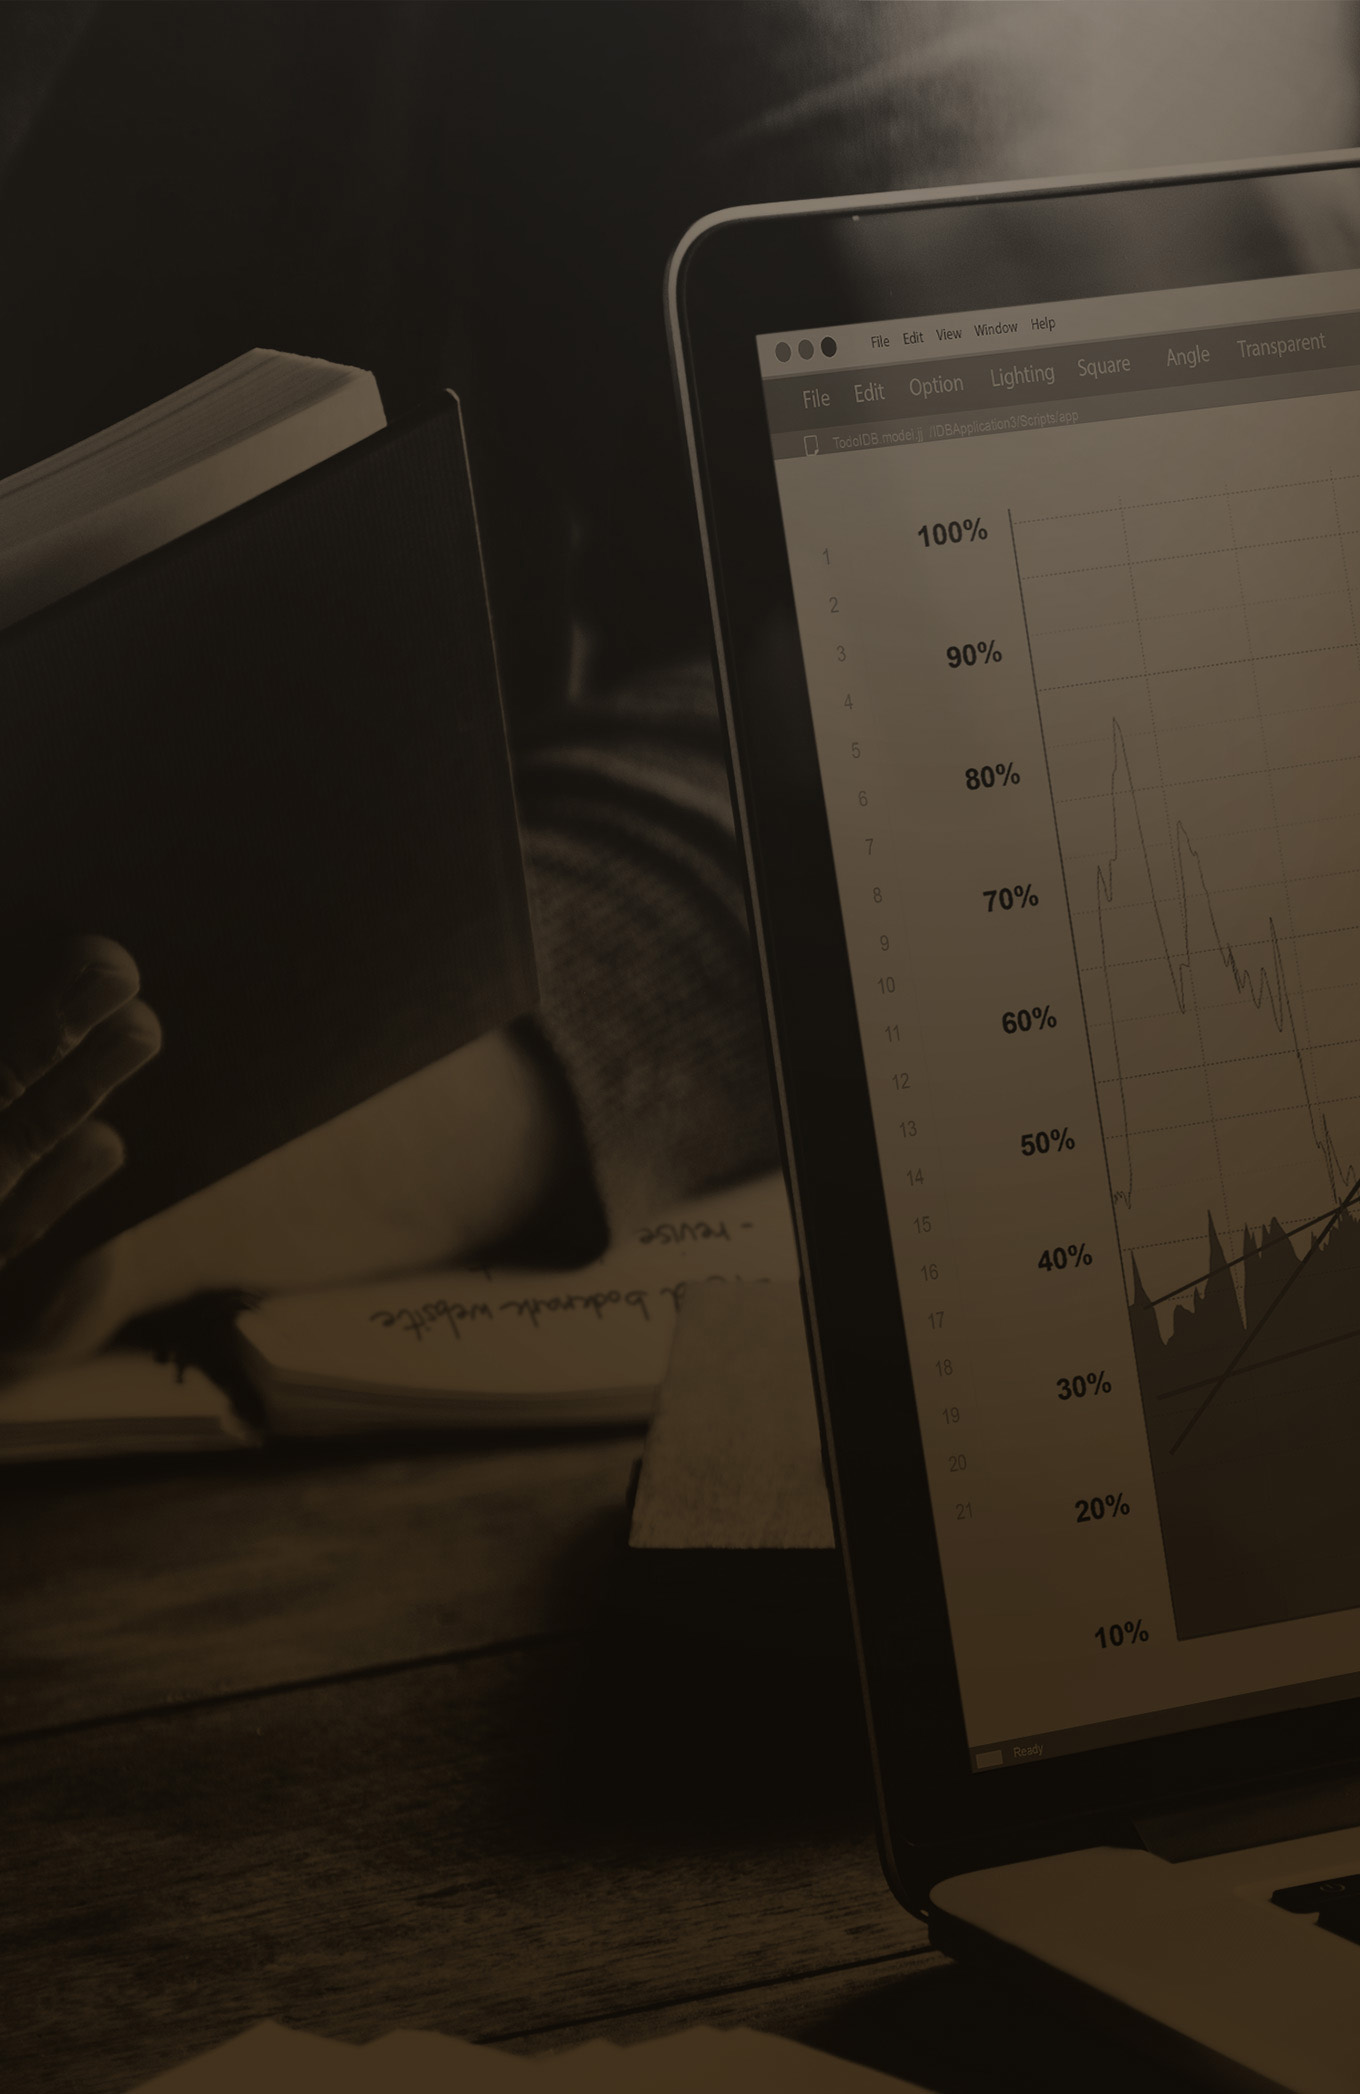
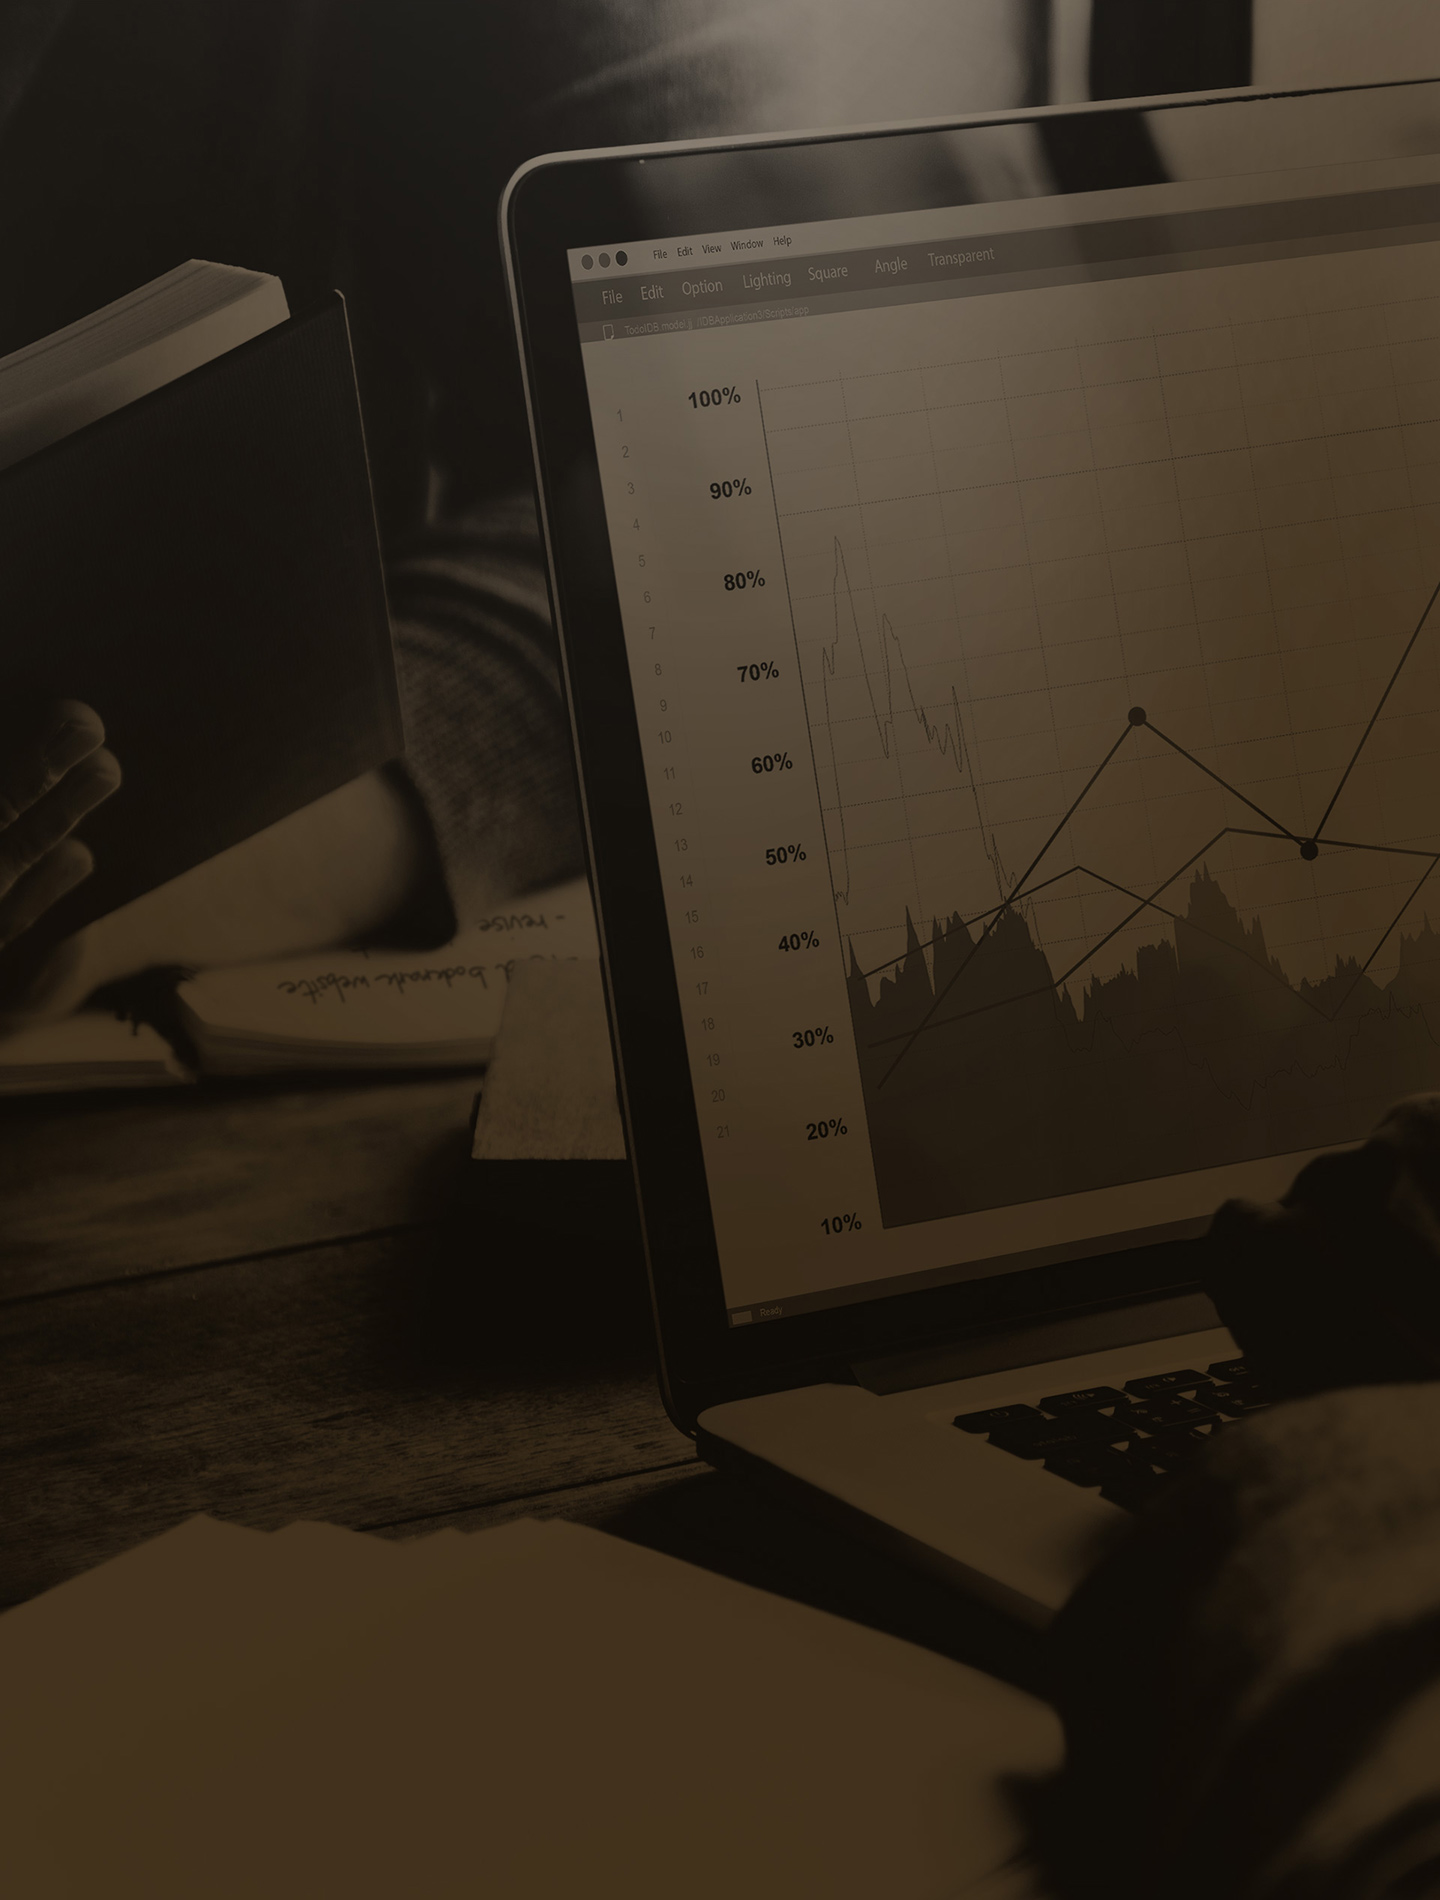
Added google map

diff --git a/src/bootstrap.js b/src/bootstrap.js
@@ -4,6 +4,7 @@ import 'modernizr';
 import 'settings';
 import Vue from 'vue';
 import BaiduMap from 'vue-baidu-map';
+import * as VueGoogleMaps from 'vue2-google-maps';
 import VueScrollTo from 'vue-scrollto';
 import VueAwesomeSwiper from 'vue-awesome-swiper';
 import filter from 'filter';
@@ -47,6 +48,16 @@ if (localeConfig.localeEnabled) {
 
 Vue.use(BaiduMap, {
 	ak: 'V4ZAcWo4zX0rQXF3hRHwhyVquao5YjIX',
+});
+
+Vue.use(VueGoogleMaps, {
+	load: {
+		key: 'AIzaSyBfJh-_qvXmXhwRfJ9OR6V5dXxk_SnAmvY',
+		// libraries: 'places', // This is required if you use the Autocomplete plugin
+		// OR: libraries: 'places,drawing'
+		// OR: libraries: 'places,drawing,visualization'
+		// (as you require)
+	},
 });
 
 Vue.use(VueScrollTo, {

diff --git a/src/component/ContactMap/ContactMap.vue b/src/component/ContactMap/ContactMap.vue
@@ -2,11 +2,24 @@
 <script src="./ContactMap.js"></script>
 
 <template>
-	<div>
+	<div :class="$style.mapWrapper">
 		<baidu-map :class="$style.map" :center="{lng: 151.25829, lat: -33.889387}" :zoom="15">
 			<bm-marker :position="{lng: 151.25829, lat: -33.889387}" :dragging="true" animation="BMAP_ANIMATION_BOUNCE">
 			</bm-marker>
 		</baidu-map>
+		<gmap-map
+			id="google-map"
+			:class="[$style.map, $style.googleMap, googleEnabled ? $style.show : '']"
+			:center="{lat: -33.872433, lng: 151.207652}"
+			:zoom="15"
+			:options="{
+		      disableDefaultUI: true
+	        }"
+		>
+			<gmap-marker
+				:position="{lat: -33.872433, lng: 151.207652}"
+			></gmap-marker>
+		</gmap-map>
 	</div>
 </template>
 

diff --git a/index.html b/index.html
@@ -4,8 +4,10 @@
     <meta charset="utf-8" />
     <meta http-equiv="X-UA-Compatible" content="IE=edge,chrome=1" />
     <meta name="viewport" content="width=device-width, initial-scale=1, maximum-scale=1, shrink-to-fit=no" />
+	<link href='https://api.tiles.mapbox.com/mapbox-gl-js/v0.42.1/mapbox-gl.css' rel='stylesheet' />
 
-    <title>Gleich</title>
+
+	<title>Gleich</title>
   </head>
   <body>
     <div id="app"></div>

diff --git a/src/component/ContactMap/ContactMap.scss b/src/component/ContactMap/ContactMap.scss
@@ -1,10 +1,24 @@
 :local {
+	.map-wrapper {
+		position: relative;
+	}
 	.map {
 		height: 380px;
 		width: 100%;
 
 		@include respond-to(SMALL) {
 			height: 280px;
+		}
+	}
+
+	.google-map {
+		position: absolute !important;
+		left: 0;
+		top: 0;
+		z-index: -1;
+
+		&.show {
+			z-index: 1;
 		}
 	}
 }

diff --git a/src/page/HomePage/HomePage.js b/src/page/HomePage/HomePage.js
@@ -27,7 +27,7 @@ export default {
 			let yPos = window.pageYOffset / 5;
 			yPos = -yPos;
 			// eslint-disable-next-line
-			const coords = '100% ' + yPos + 'px';
+			const coords = '0 ' + yPos + 'px';
 			parallax.style.backgroundPosition = coords;
 		},
 	},

diff --git a/src/component/ContactMap/ContactMap.js b/src/component/ContactMap/ContactMap.js
@@ -1,3 +1,15 @@
+import { loaded } from 'vue2-google-maps';
+
 export default {
 	name: 'ContactMap',
+	data() {
+		return {
+			googleEnabled: false,
+		};
+	},
+	mounted() {
+		loaded.then(() => {
+			this.googleEnabled = true;
+		});
+	},
 };

diff --git a/src/page/HomePage/HomePage.scss b/src/page/HomePage/HomePage.scss
@@ -2,6 +2,6 @@
 	.wrapper {
 		background-image: url('asset/image/parallax_bg.jpg');
 		background-size: auto 140%;
-		background-position: 100% 0;
+		background-position: 0 0;
 	}
 }
